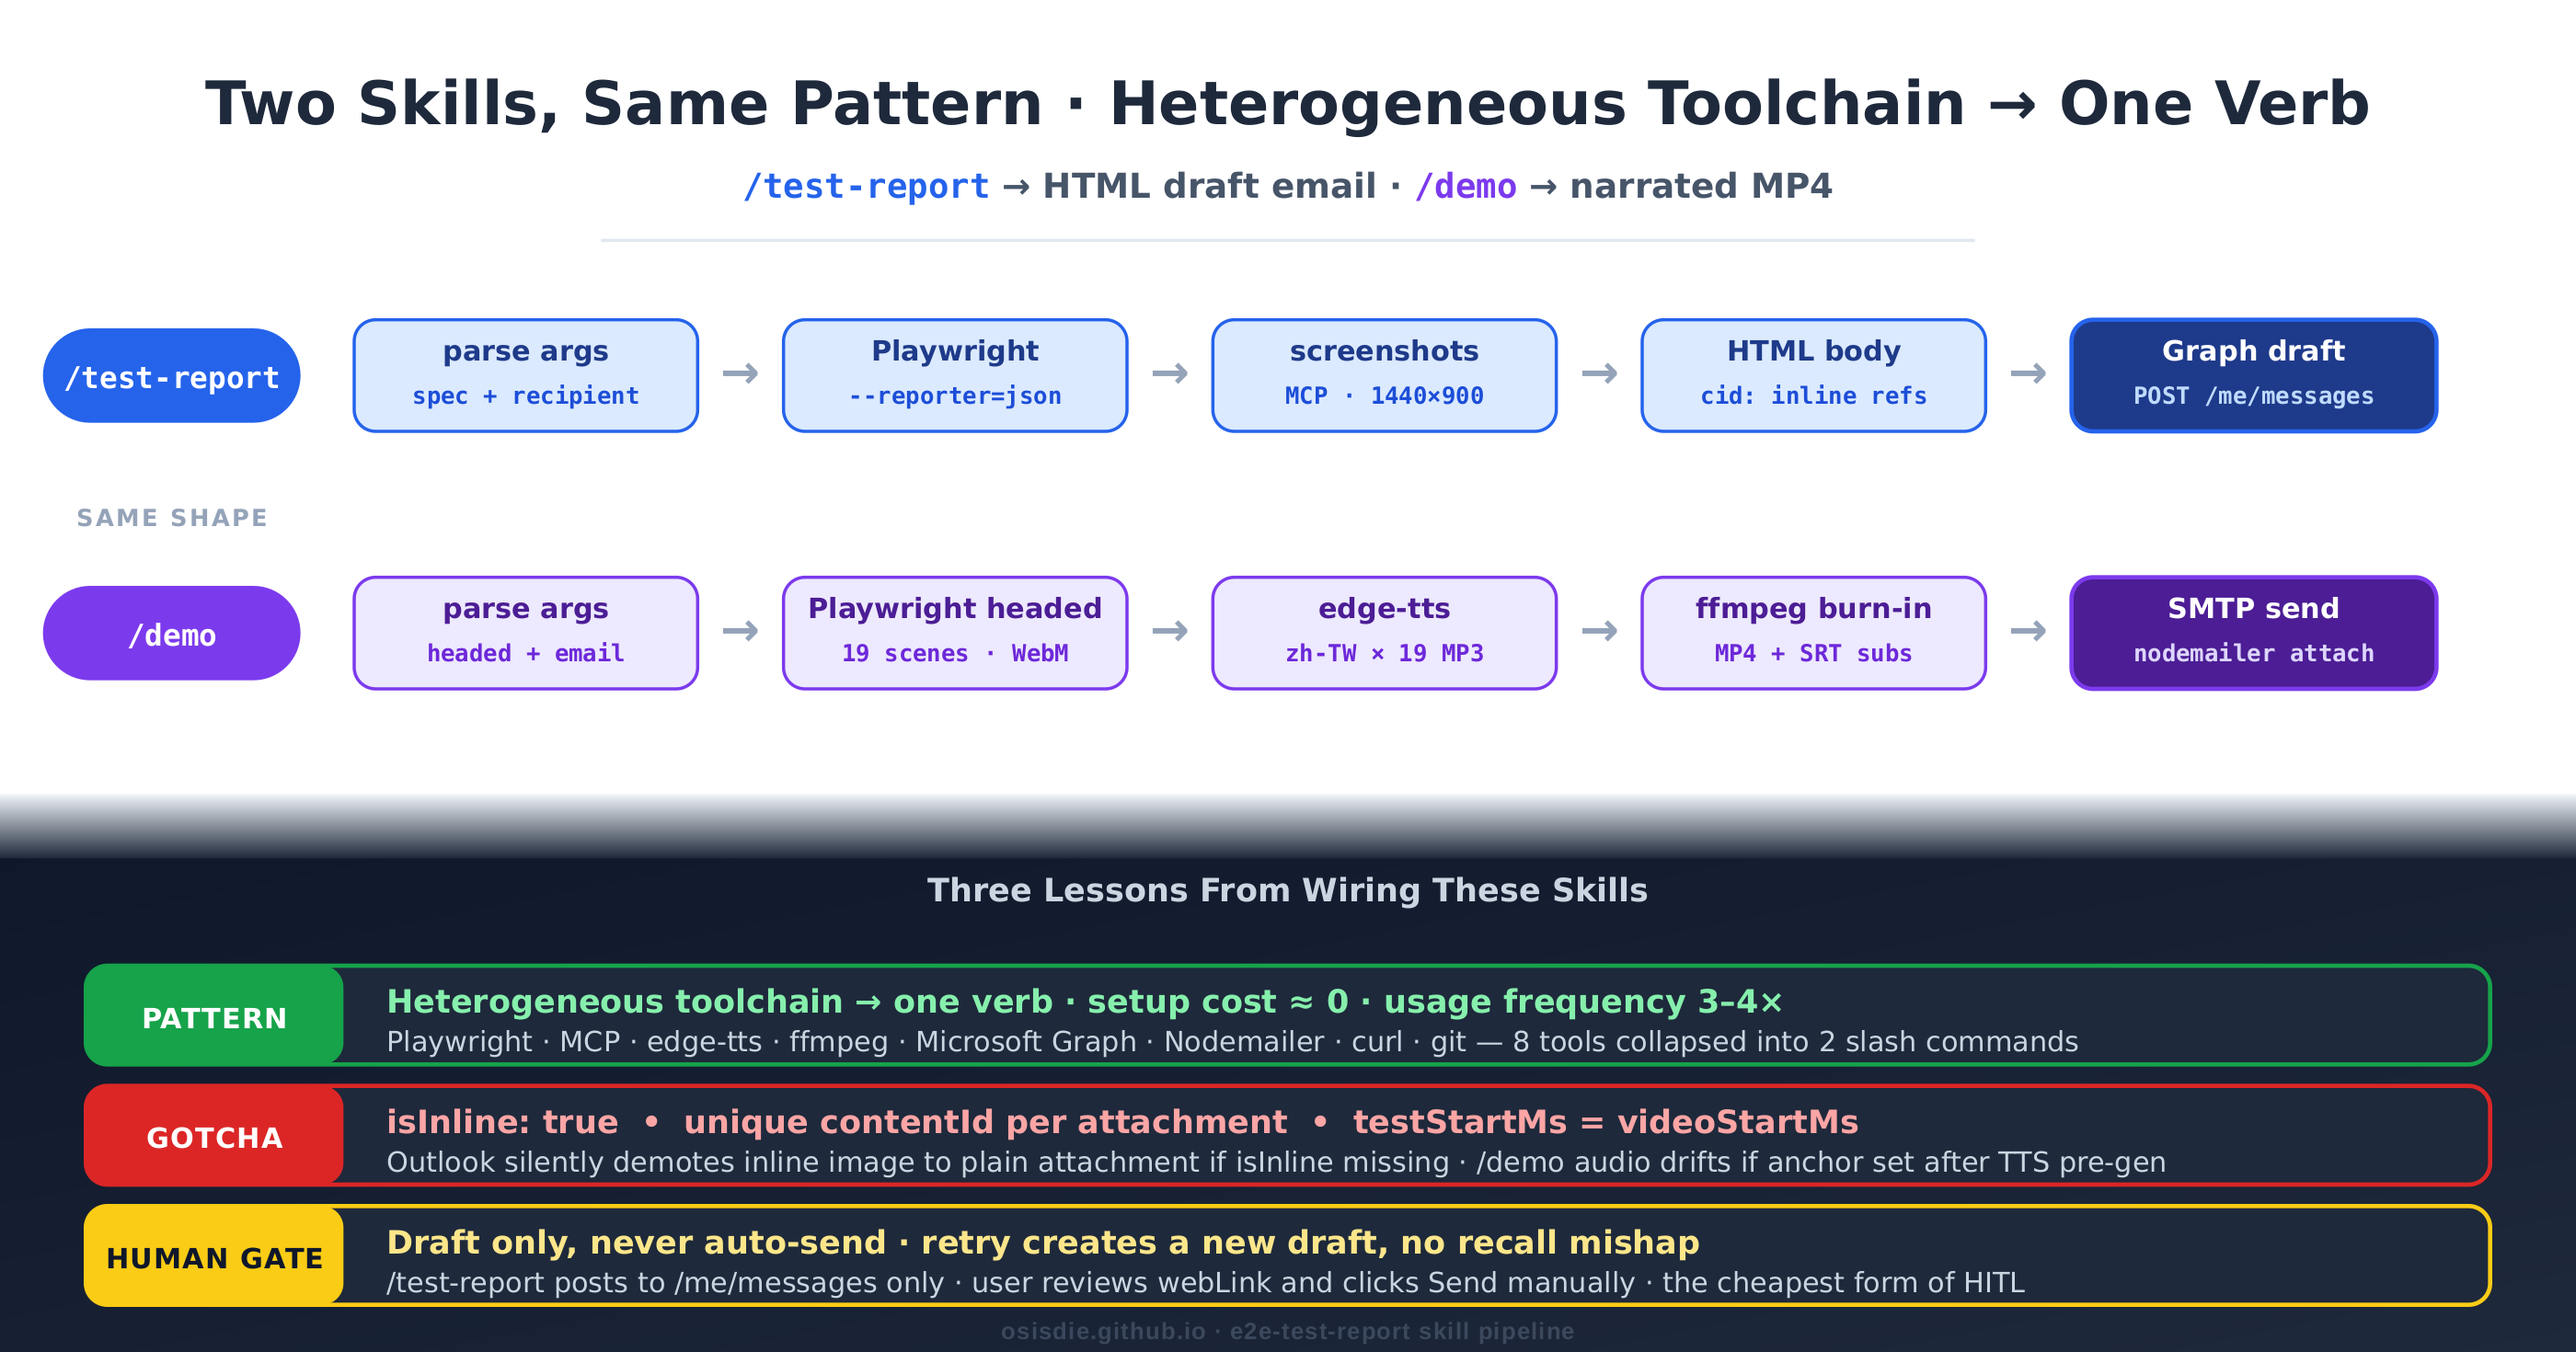
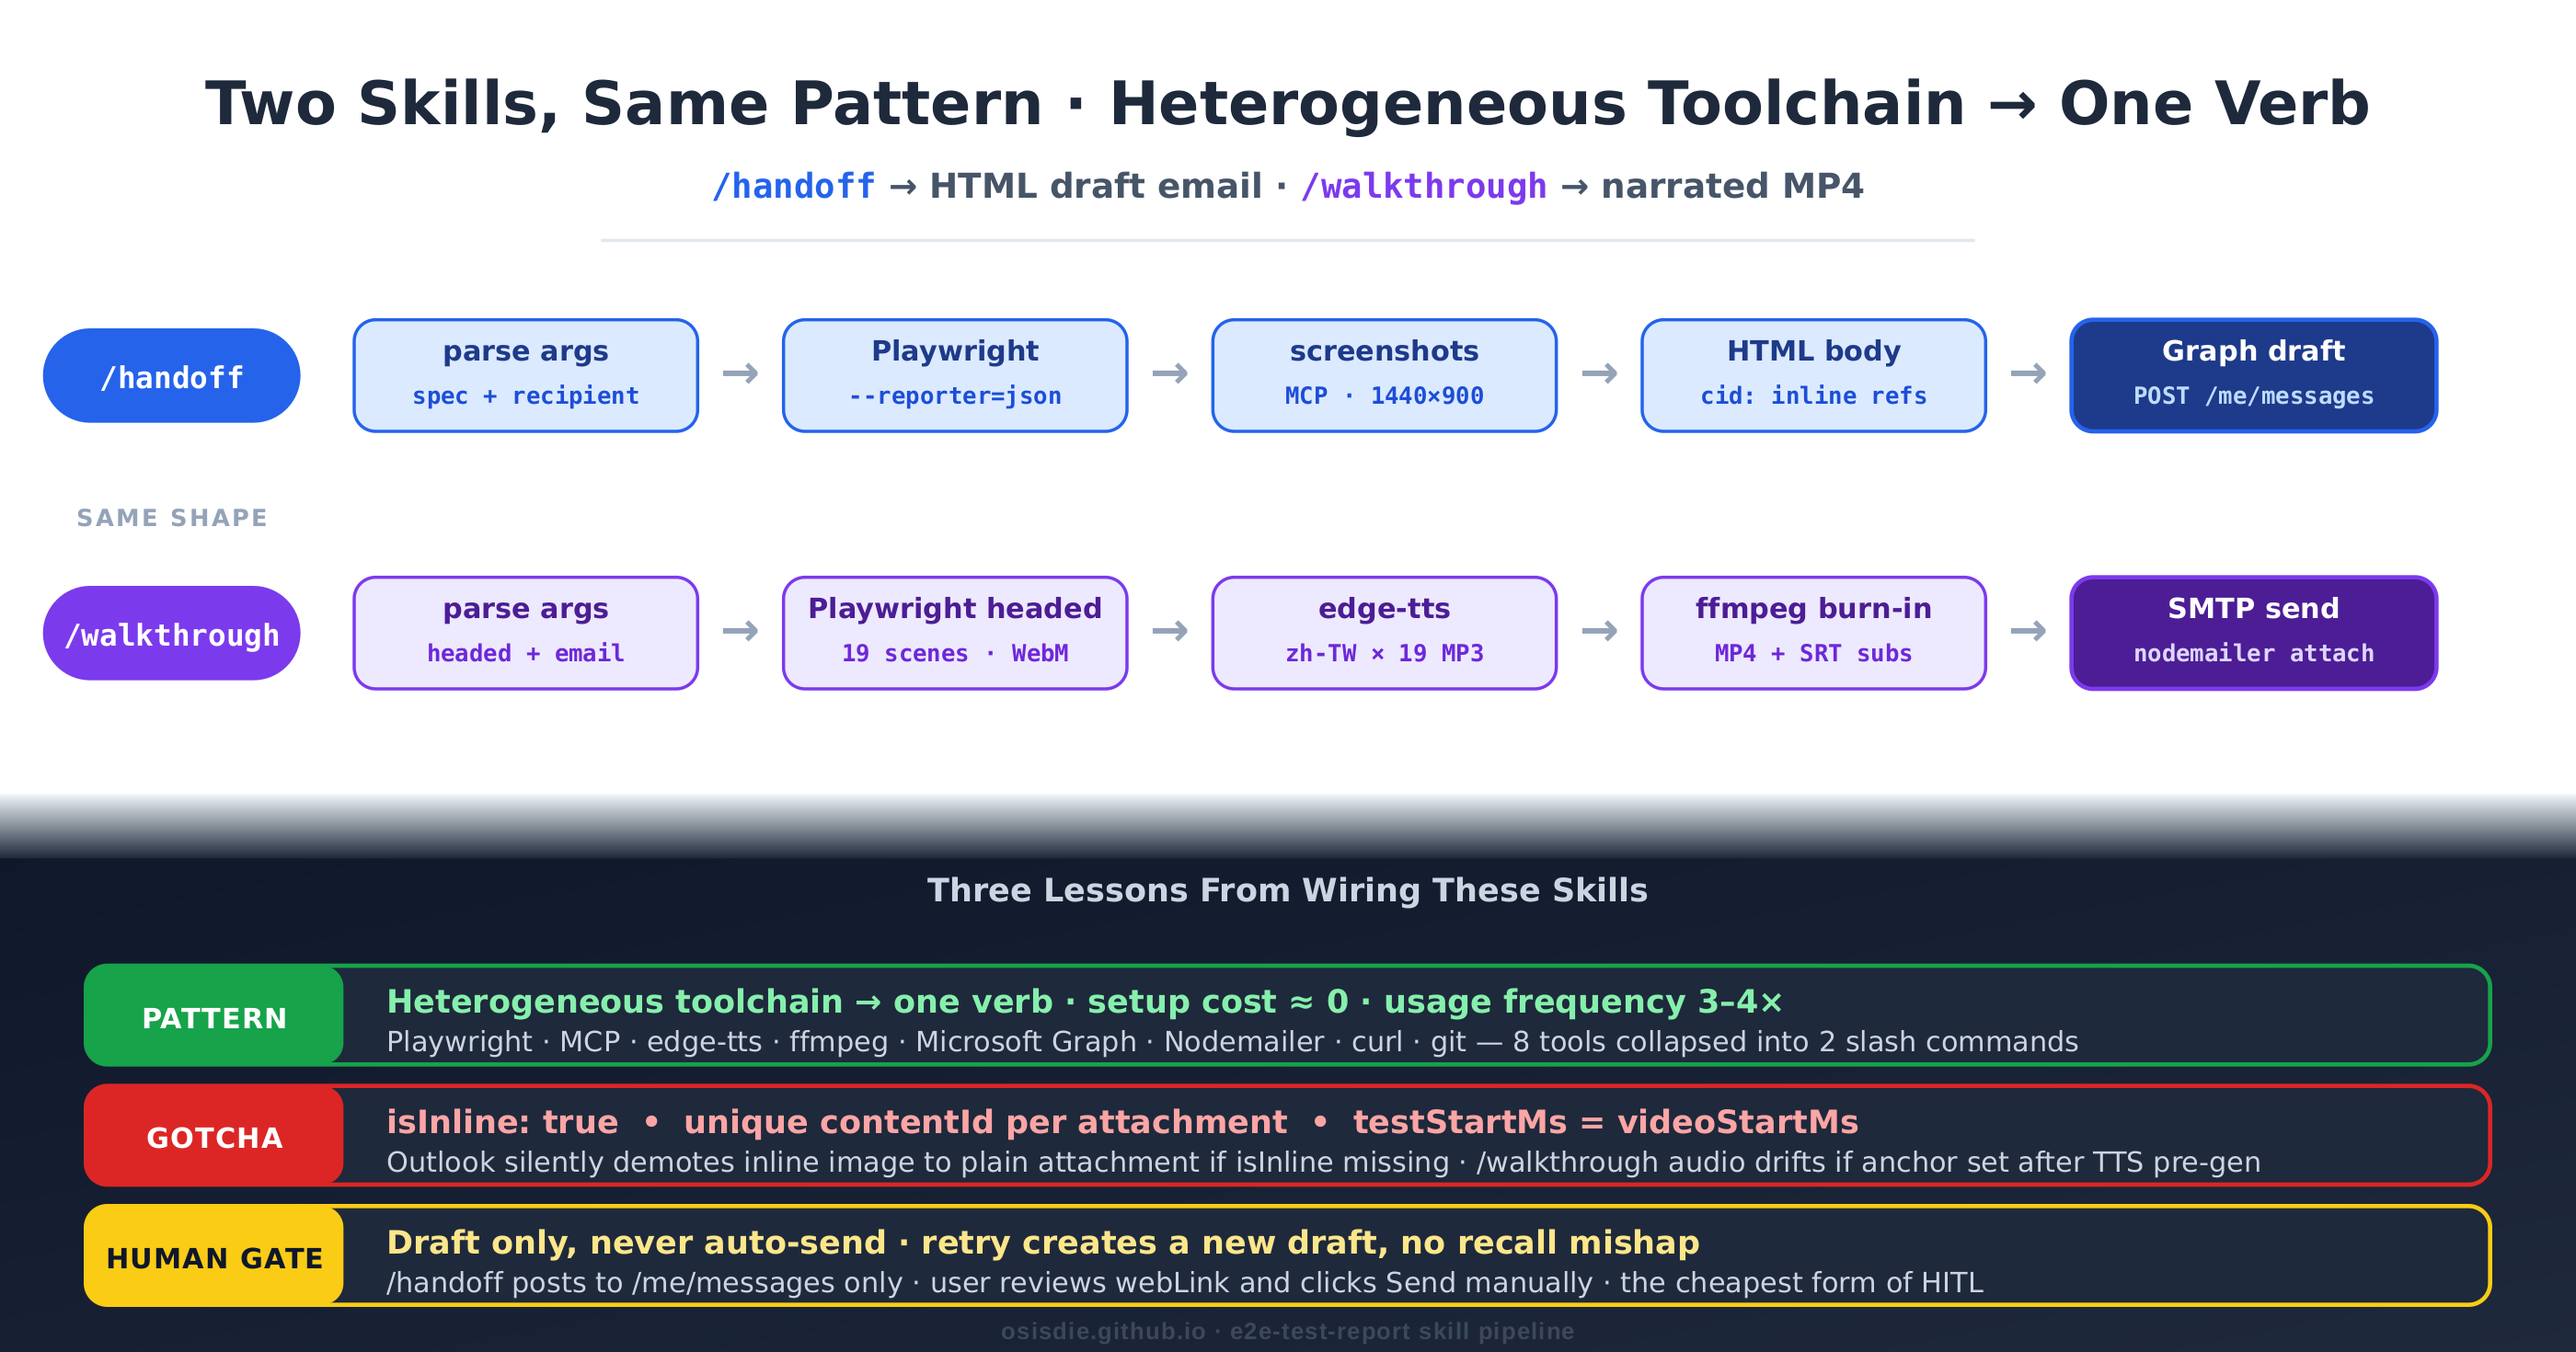
refactor(post): rename skills to outcome-shaped verbs
Rename the two skills covered in the 2026-05-27 post:
  /test-report  ->  /handoff      (outcome: pass results to a reviewer)
  /demo         ->  /walkthrough  (outcome: guide a viewer through the platform)

Add a short naming-rationale paragraph in section 5 explaining
the change: name skills after the outcome, not the
implementation. /test-report and /demo locked readers into
the implementation lens; the new names point at what the skill
actually delivers.

Also add a new bullet to section 7 (Room for improvement):
consider swapping edge-tts for a HuggingFace TTS model
(XTTS-v2, Spark-TTS, fish-speech) for more natural zh-TW voice
on /walkthrough output, trading generation time for prosody.

Re-render both hero PNGs with the renamed pills and station
artifact card. Fix MD028 (blank line inside blockquote) by
merging the terms box and TL;DR box into a single blockquote
with a > separator.

URL slug stays e2e-test-report-skill-pipeline since it reads
as a generic English noun phrase (test report) rather than a
specific skill name.

diff --git a/_posts/2026/2026-05-27-e2e-test-report-skill-pipeline.md b/_posts/2026/2026-05-27-e2e-test-report-skill-pipeline.md
@@ -1,8 +1,8 @@
 ---
 layout: post
-title: "一行 /test-report：把 Playwright 跑完、截圖、組 HTML、draft email 串成一條龍"
+title: "一行 /handoff：把 E2E 跑完、截圖、組 HTML、draft email 一路串到 reviewer 信箱"
 date: 2026-05-27 18:00:00 +0800
-description: "Claude Code skill 怎麼把 E2E 測試、截圖、HTML 報告、Microsoft Graph draft email 五個步驟封裝成一個 slash command；進階版 /demo skill 再加 edge-tts + ffmpeg 直接生出帶字幕的導覽影片。重點不在工具，在「把異質 toolchain 攤平成一個動詞」這個 pattern。"
+description: "Claude Code skill 怎麼把 E2E 測試、截圖、HTML 報告、Microsoft Graph draft email 五個步驟封裝成一個 slash command；進階版 /walkthrough skill 再加 edge-tts + ffmpeg 直接生出帶字幕的導覽影片。重點不在工具，在「把異質 toolchain 攤平成一個動詞」這個 pattern。"
 tags: claude-code skills automation playwright e2e testing devops ai
 featured: false
 og_image: /assets/img/blog/2026/e2e-test-report-skill-pipeline/e2e-test-report-skill-pipeline-overview.png
@@ -10,14 +10,14 @@ toc:
   sidebar: left
 ---
 
-{% include figure.liquid loading="eager" path="assets/img/blog/2026/e2e-test-report-skill-pipeline/e2e-test-report-skill-pipeline-architecture.png" class="img-fluid rounded z-depth-1" alt="兩個 Claude Code skill 的對照流程圖：/test-report 把 Playwright 跑完、組 HTML、推到 Graph API 變草稿；/demo 用 edge-tts + ffmpeg 把 19 場景燒成帶字幕的 MP4 寄出" caption="兩個 skill、同一個 pattern：把異質 toolchain 攤平成一個動詞。" %}
+{% include figure.liquid loading="eager" path="assets/img/blog/2026/e2e-test-report-skill-pipeline/e2e-test-report-skill-pipeline-architecture.png" class="img-fluid rounded z-depth-1" alt="兩個 Claude Code skill 的對照流程圖：/handoff 把 Playwright 跑完、組 HTML、推到 Graph API 變草稿；/walkthrough 用 edge-tts + ffmpeg 把 19 場景燒成帶字幕的 MP4 寄出" caption="兩個 skill、同一個 pattern：把異質 toolchain 攤平成一個動詞。" %}
 
 > **本文用語**：
 >
 > - **Skill** — Claude Code 的 slash command 機制。一個 `.md` 檔放在 `~/.claude/skills/` 或專案層 `.claude/skills/`，用自然語言 + bash + 偶爾 typescript 描述一條 workflow，輸入 `/<name>` 就跑完整條
-> - **test-report 流程** — 「跑測試 → 收 artifact → 整理結果 → 通知人」這條 dev workflow
-
-> **TL;DR**：用 Claude Code 的 skill 系統把 **Playwright → screenshot → HTML 組裝 → Microsoft Graph draft email** 5 個步驟封成一個 `/test-report`；進階版 `/demo` 再加 **edge-tts + ffmpeg subtitle burn-in**，產出有字幕的 zh-TW 導覽 MP4 直接寄出。重點不在工具——用到的全是現成的——重點在 **「把異質 toolchain 攤平成一個動詞」** 這個 pattern：步驟少了一階心智成本，使用頻率就上去；使用頻率上去，那個動詞才有存在意義。
+> - **handoff 流程** — 「跑測試 → 收 artifact → 整理結果 → 交給 reviewer」這條 dev workflow
+>
+> **TL;DR**：用 Claude Code 的 skill 系統把 **Playwright → screenshot → HTML 組裝 → Microsoft Graph draft email** 5 個步驟封成一個 `/handoff`；進階版 `/walkthrough` 再加 **edge-tts + ffmpeg subtitle burn-in**，產出有字幕的 zh-TW 導覽 MP4 直接寄出。重點不在工具——用到的全是現成的——重點在 **「把異質 toolchain 攤平成一個動詞」** 這個 pattern：步驟少了一階心智成本，使用頻率就上去；使用頻率上去，那個動詞才有存在意義。
 
 跑完一輪 E2E 測試、把結果寄給隊友 review，是每個小團隊都會做的事。但這件事的步驟以前長這樣：
 
@@ -30,15 +30,15 @@ toc:
 
 每次 25–30 分鐘。多數時間花在 step 4–5：截圖要排版、表格格式要對、附件 `cid:` 要對齊——對不齊 inline image 在 Outlook 不顯示，整封信變紅色 X。
 
-後來把整套流程封裝成一個 Claude Code skill：`/test-report`。一行指令把 step 1–6 全部跑完，結果落在 Outlook 的草稿匣，**人類只負責 review + 按送出**。本文拆這條 pipeline 怎麼接，以及更進階的 `/demo` skill 怎麼用同樣的 pattern 把整個平台導覽錄成有字幕的 MP4。
+後來把整套流程封裝成一個 Claude Code skill：`/handoff`。一行指令把 step 1–6 全部跑完，結果落在 Outlook 的草稿匣，**人類只負責 review + 按送出**。本文拆這條 pipeline 怎麼接，以及更進階的 `/walkthrough` skill 怎麼用同樣的 pattern 把整個平台導覽錄成有字幕的 MP4。
 
 ---
 
-## 1. /test-report skill 做了什麼
+## 1. /handoff skill 做了什麼
 
-`~/.claude/skills/test-report.md` 描述一條 6 階段 pipeline，輸入 `/test-report` 就觸發：
+`~/.claude/skills/handoff.md` 描述一條 6 階段 pipeline，輸入 `/handoff` 就觸發：
 
-1. **parse arguments** — `/test-report login you@example.com` 解出 spec 檔名 + 收件人。沒給就跑全部 `e2e/*.spec.ts`、寄給 `git config user.email`
+1. **parse arguments** — `/handoff login you@example.com` 解出 spec 檔名 + 收件人。沒給就跑全部 `e2e/*.spec.ts`、寄給 `git config user.email`
 2. **pre-flight** — `curl -sf` 探 dev server，跑不起來就警告並停手
 3. **run Playwright** — `npx playwright test e2e/$SPEC --reporter=list,json --output=test-reports/playwright/`，把 JSON 餵下游
 4. **截圖** — 透過 Playwright MCP 連到瀏覽器、導航到 key pages 截 1440×900 PNG，存到 `.playwright-mcp/`。MCP 不在的話降級用既有截圖
@@ -49,9 +49,9 @@ toc:
 
 ```bash
 # 三種用法
-/test-report                          # 跑全部，寄給 git user.email
-/test-report login                    # 只跑 login.spec.ts
-/test-report login you@example.com    # 指定 spec + 收件人
+/handoff                          # 跑全部，寄給 git user.email
+/handoff login                    # 只跑 login.spec.ts
+/handoff login you@example.com    # 指定 spec + 收件人
 ```
 
 ---
@@ -103,11 +103,11 @@ toc:
 
 ---
 
-## 4. 進階版 — /demo skill：直接生帶字幕的導覽影片
+## 4. 進階版 — /walkthrough skill：直接生帶字幕的導覽影片
 
-`/test-report` 的輸出是 email + 截圖。下一步：**把整個平台導覽錄成有字幕的 MP4 直接寄出**。
+`/handoff` 的輸出是 email + 截圖。下一步：**把整個平台導覽錄成有字幕的 MP4 直接寄出**。
 
-`/demo` skill 串的 toolchain 比 `/test-report` 又多兩層：
+`/walkthrough` skill 串的 toolchain 比 `/handoff` 又多兩層：
 
 1. **Playwright headed** 跑 5 幕 19 場景的 walkthrough spec
 2. 每個場景開始前用 `page.evaluate()` 注入紅框（`position: fixed`, `z-index: 99999`）highlight 對應 UI 元素，下一場景前自動移除
@@ -124,9 +124,9 @@ toc:
 
 ## 5. Skill 系統的價值 — 把異質 toolchain 攤平成一個動詞
 
-放大鏡頭看，`/test-report` 跟 `/demo` 的共同骨架是：
+放大鏡頭看，`/handoff` 跟 `/walkthrough` 的共同骨架是：
 
-| 階段 | /test-report | /demo |
+| 階段 | /handoff | /walkthrough |
 | --- | --- | --- |
 | 啟動 | parse args + curl 探 server | 同左 |
 | 跑東西 | Playwright JSON reporter | Playwright headed + video |
@@ -145,6 +145,8 @@ toc:
 
 **動詞越單純，使用頻率越高**。五個步驟封成一個動詞後，我跑 E2E 的頻率變 3–4×，因為 setup cost 趨近 0。
 
+**命名也是這個道理：把 skill 命到 outcome、不要命到 implementation**。第一版本來叫 `/test-report` 跟 `/demo`，跑久了發現命名綁住認知——看到 `/test-report` 大腦只想到「跑測試 → 寄 email」，但這個 skill 真正的價值是把「結果交給 reviewer」這件事 friction 降到 0；`/demo` 則太通用、跟「製作 demo」（剪片、寫 slide、寫 doc）所有事混在一起。後來改名 **`/handoff`**（把 review 交出去）跟 **`/walkthrough`**（帶人逛一遍平台）—— implementation 細節未來會換，outcome 不會。
+
 ---
 
 ## 6. 幾個踩到的坑
@@ -153,7 +155,7 @@ toc:
 - **MCP 不在時的 fallback** — 第一版 hard-require Playwright MCP，沒裝就跑不動。改成「MCP 沒裝就用 `docs/screenshots/` 或 `.playwright-mcp/` 既有圖」——降級而不是中止
 - **Graph token 過期** — 寫一個 wrapper function `resolveGraphAccessToken()` 把 refresh 邏輯封起來；skill 本身只 `await accessToken`，refresh 透明
 - **CID collision** — 第 3 節提過，每張 inline 圖的 `contentId` 必須 unique
-- **Audio / video desync (/demo only)** — 第 4 節提過，`testStartMs` anchor 在 TTS 預生成之前
+- **Audio / video desync (/walkthrough only)** — 第 4 節提過，`testStartMs` anchor 在 TTS 預生成之前
 
 ---
 
@@ -163,17 +165,18 @@ toc:
 2. **Failure-only mode** — 只有 fail 時才 draft（pass-all 直接 Slack 一行 ✅），現在不管結果都建草稿，多餘
 3. **Retry-flake detector** — 同一隻 spec 連跑 3 次有 2 次 pass 就標 flaky，draft 裡 highlight
 4. **Diff 截圖** — 連 baseline 圖一起截，跟前次 run 做 visual diff，UI regression 自動框出
-5. **Skill composition** — 讓 `/demo` 內部呼叫 `/test-report`（demo 跑完順便產 test-report），現在兩個 skill 各自獨立、artifacts 沒共用
+5. **Skill composition** — 讓 `/walkthrough` 內部呼叫 `/handoff`（walkthrough 跑完順便產 handoff report），現在兩個 skill 各自獨立、artifacts 沒共用
+6. **換 HF 上比較擬真的 TTS 模型** — 現在用 `edge-tts` 的 `zh-TW-HsiaoChenNeural` voice，產出乾淨但聽起來明顯機器音。HuggingFace 上的 `coqui/XTTS-v2`、`SparkAudio/Spark-TTS-0.5B`、`fishaudio/fish-speech-1.5` 都支援 zh-TW 且更接近真人，差別是要起 GPU container 跑（edge-tts 是免費 API call）。`/walkthrough` 的 demo 影片用擬真語音更好賣相，trade-off 是 generation 從 ~30 秒拉到 ~3 分鐘
 
 ---
 
 ## 8. 收尾
 
-`/test-report` 跟 `/demo` 都不是技術突破。用到的工具全是現成的：Playwright、edge-tts、ffmpeg、Graph API、Nodemailer、curl。**價值在「把 toolchain 攤平成一個動詞」**：步驟少了一階心智成本，使用頻率就上去；使用頻率上去，那個動詞才有存在意義。
+`/handoff` 跟 `/walkthrough` 都不是技術突破。用到的工具全是現成的：Playwright、edge-tts、ffmpeg、Graph API、Nodemailer、curl。**價值在「把 toolchain 攤平成一個動詞」**：步驟少了一階心智成本，使用頻率就上去；使用頻率上去，那個動詞才有存在意義。
 
 寫 skill 的成本不高（兩個 skill 各 ~150 行 markdown 描述、加起來不到 500 行 tsx 補完），但每用一次省 25–30 分鐘。寫一次、用一年。
 
-下一篇想拆 `/demo` 裡頭 audio / video 同步的細節——為什麼 `videoStartMs` 一定要 anchor 在 TTS 預生成之前，跟 ffmpeg burn-in 字幕怎麼跟 Playwright video timing 對齊。那條時序圖比想像中複雜。
+下一篇想拆 `/walkthrough` 裡頭 audio / video 同步的細節——為什麼 `videoStartMs` 一定要 anchor 在 TTS 預生成之前，跟 ffmpeg burn-in 字幕怎麼跟 Playwright video timing 對齊。那條時序圖比想像中複雜。
 
 ---
 
